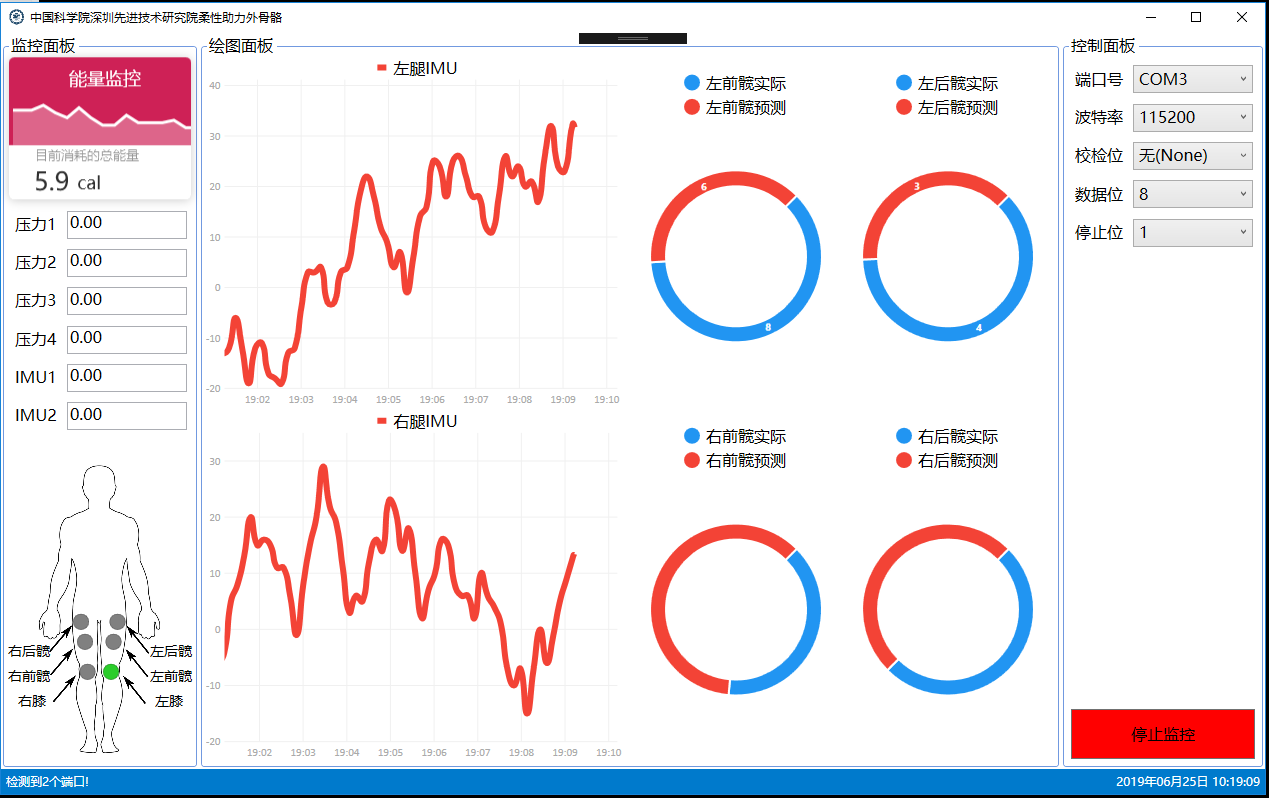
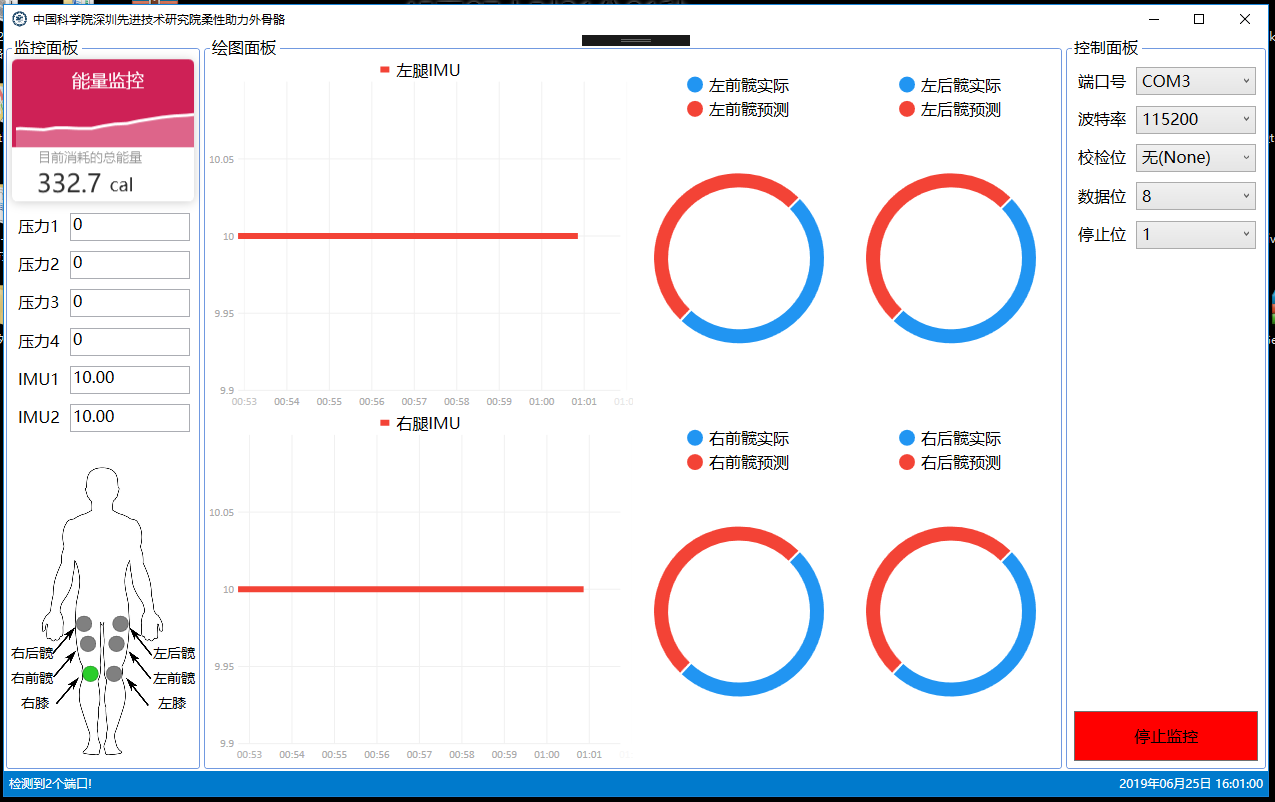
完成4个助力的实际值和预测值可视化

diff --git a/LiveChartsLearning/LiveChartsLearning/BasicColumn.xaml b/LiveChartsLearning/LiveChartsLearning/BasicColumn.xaml
@@ -8,16 +8,20 @@
              mc:Ignorable="d" 
              d:DesignHeight="300" d:DesignWidth="300" d:DataContext="{d:DesignInstance local:BasicColumn}">
     <Grid>
-        <lvc:CartesianChart Series="{Binding SeriesCollection}" LegendLocation="Top">
-            
-            <lvc:CartesianChart.AxisX>
-                <lvc:Axis Title="Salesman" Labels="{Binding Labels}"></lvc:Axis>
-            </lvc:CartesianChart.AxisX>
-            <!--
+        <DockPanel>
+            <Button x:Name="update" DockPanel.Dock="Bottom" Height="20" Click="update_Click" Padding="10 0" Content="Update"/>
+            <lvc:CartesianChart DockPanel.Dock="Top" Series="{Binding SeriesCollection}" LegendLocation="Top">
+
+                <lvc:CartesianChart.AxisX>
+                    <lvc:Axis Title="Salesman" Labels="{Binding Labels}"></lvc:Axis>
+                </lvc:CartesianChart.AxisX>
+                <!--
             <lvc:CartesianChart.AxisY>
                 <lvc:Axis Title="Sold Apps" LabelFormatter="{Binding Formatter}"></lvc:Axis>
             </lvc:CartesianChart.AxisY>
             -->
-        </lvc:CartesianChart>
+            </lvc:CartesianChart>
+        </DockPanel>
+        
     </Grid>
 </UserControl>

diff --git a/FlexibleExoskeleton/FlexibleExoskeleton/MainWindow.xaml.cs b/FlexibleExoskeleton/FlexibleExoskeleton/MainWindow.xaml.cs
@@ -190,9 +190,6 @@ namespace FlexibleExoskeleton
                     Task.Factory.StartNew(EnergeRead); // 能量监控开始
                     // 环状图监控开始
                     Task.Factory.StartNew(LeftFhipPieRead);
-                    Task.Factory.StartNew(LeftBhipPieRead);
-                    Task.Factory.StartNew(RightFhipPieRead);
-                    Task.Factory.StartNew(RightBhipPieRead);
 
                     LedTimer.Tick += new EventHandler(LedLightTimer); //增加了一个叫ShowSenderTimer的在电机和传感器的只读文本框中输出信息的委托
                     LedTimer.Interval = new TimeSpan(0, 0, 0, 2, 0);  //文本变化间隔是??毫秒(并不准确)
@@ -222,6 +219,7 @@ namespace FlexibleExoskeleton
         }
         #endregion
 
+        #region LED助力指示灯
         private void LedLightTimer(object sender, EventArgs e)//取当前时间并扫描可用串口的委托
         {
             IsLight = !IsLight;
@@ -237,6 +235,7 @@ namespace FlexibleExoskeleton
                 RightKneeLight_Ellipse.Fill = new SolidColorBrush(Color.FromArgb(230, 20, 200, 20));
             }
         }
+        #endregion
 
         #region 下拉选项框
         private void DataComboBox_DropDownClosed(object sender, EventArgs e) // 【端口号】下拉选项框选择好后执行
@@ -408,20 +407,20 @@ namespace FlexibleExoskeleton
             //CurPlot_total.AddLineGraph(total_Cur, Colors.Red, 2, "电机总电流");
             #endregion
 
-            #region Doughnut图声明
+            #region 环状图声明
             LeftFhipPie_SeriesCollection = new SeriesCollection
             {
                 new PieSeries
                 {
                     Title = "左前髋实际",
                     Values = new ChartValues<ObservableValue> { new ObservableValue(8) },
-                    DataLabels = true
+                    DataLabels = false
                 },
                 new PieSeries
                 {
                     Title = "左前髋预测",
                     Values = new ChartValues<ObservableValue> { new ObservableValue(6) },
-                    DataLabels = true
+                    DataLabels = false
                 },
             };
 
@@ -430,14 +429,14 @@ namespace FlexibleExoskeleton
                 new PieSeries
                 {
                     Title = "左后髋实际",
-                    Values = new ChartValues<ObservableValue> { new ObservableValue(3) },
-                    DataLabels = true
+                    Values = new ChartValues<ObservableValue> { new ObservableValue(8) },
+                    DataLabels = false
                 },
                 new PieSeries
                 {
                     Title = "左后髋预测",
-                    Values = new ChartValues<ObservableValue> { new ObservableValue(9) },
-                    DataLabels = true
+                    Values = new ChartValues<ObservableValue> { new ObservableValue(6) },
+                    DataLabels = false
                 },
             };
 
@@ -446,14 +445,14 @@ namespace FlexibleExoskeleton
                 new PieSeries
                 {
                     Title = "右前髋实际",
-                    Values = new ChartValues<ObservableValue> { new ObservableValue(3) },
-                    DataLabels = true
+                    Values = new ChartValues<ObservableValue> { new ObservableValue(8) },
+                    DataLabels = false
                 },
                 new PieSeries
                 {
                     Title = "右前髋预测",
-                    Values = new ChartValues<ObservableValue> { new ObservableValue(9) },
-                    DataLabels = true
+                    Values = new ChartValues<ObservableValue> { new ObservableValue(6) },
+                    DataLabels = false
                 },
             };
 
@@ -462,14 +461,14 @@ namespace FlexibleExoskeleton
                 new PieSeries
                 {
                     Title = "右后髋实际",
-                    Values = new ChartValues<ObservableValue> { new ObservableValue(3) },
-                    DataLabels = true
+                    Values = new ChartValues<ObservableValue> { new ObservableValue(8) },
+                    DataLabels = false
                 },
                 new PieSeries
                 {
                     Title = "右后髋预测",
-                    Values = new ChartValues<ObservableValue> { new ObservableValue(9) },
-                    DataLabels = true
+                    Values = new ChartValues<ObservableValue> { new ObservableValue(6) },
+                    DataLabels = false
                 },
             };
 
@@ -532,7 +531,7 @@ namespace FlexibleExoskeleton
                 ChartValues1.Add(new MeasureModel
                 {
                     DateTime = now,
-                    Value = ports.imus[0]
+                    Value = ports.imus[0] // 左腿IMU
                     //Value = _trend1
                 });
 
@@ -545,7 +544,7 @@ namespace FlexibleExoskeleton
                 ChartValues3.Add(new MeasureModel
                 {
                     DateTime = now,
-                    Value = ports.imus[1]
+                    Value = ports.imus[1] // 右腿IMU
                     //Value = _trend3
                 });
 
@@ -639,7 +638,7 @@ namespace FlexibleExoskeleton
         }
         #endregion
 
-        #region Doughnut图
+        #region 环状图
         public SeriesCollection LeftFhipPie_SeriesCollection { get; set; } // 左前髋环状图
         public SeriesCollection LeftBhipPie_SeriesCollection { get; set; } // 左后髋环状图
         public SeriesCollection RightFhipPie_SeriesCollection { get; set; } // 右前髋环状图
@@ -651,67 +650,51 @@ namespace FlexibleExoskeleton
             {
                 Thread.Sleep(1000);
 
+                bool flag = true;
+
                 var r = new Random();
 
                 foreach (var series in LeftFhipPie_SeriesCollection)
                 {
                     foreach (var observable in series.Values.Cast<ObservableValue>())
                     {
-                        observable.Value = r.Next(0, 10);
+                        flag = !flag;
+
+                        if (flag) observable.Value = Math.Abs(ports.IdealForce[0]); // 左前髋预测                          
+                        else observable.Value = Math.Abs(ports.ActualForce[0]); // 左前髋实际                                   
                     }
                 }
-            }
-        }
-
-        private void LeftBhipPieRead()
-        {
-            while (IsReading)
-            {
-                Thread.Sleep(1000);
-
-                var r = new Random();
 
                 foreach (var series in LeftBhipPie_SeriesCollection)
                 {
                     foreach (var observable in series.Values.Cast<ObservableValue>())
                     {
-                        observable.Value = r.Next(0, 5);
+                        flag = !flag;
+
+                        if (flag) observable.Value = Math.Abs(ports.IdealForce[1]); // 左后髋预测                          
+                        else observable.Value = Math.Abs(ports.ActualForce[1]); // 左后髋实际    
                     }
                 }
-            }
-        }
-
-        private void RightFhipPieRead()
-        {
-            while (IsReading)
-            {
-                Thread.Sleep(1000);
-
-                var r = new Random();
 
                 foreach (var series in RightFhipPie_SeriesCollection)
                 {
                     foreach (var observable in series.Values.Cast<ObservableValue>())
                     {
-                        observable.Value = r.Next(0, 5);
+                        flag = !flag;
+
+                        if (flag) observable.Value = Math.Abs(ports.IdealForce[2]); // 右前髋预测                          
+                        else observable.Value = Math.Abs(ports.ActualForce[2]); // 右前髋实际    
                     }
                 }
-            }
-        }
-
-        private void RightBhipPieRead()
-        {
-            while (IsReading)
-            {
-                Thread.Sleep(1000);
-
-                var r = new Random();
 
                 foreach (var series in RightBhipPie_SeriesCollection)
                 {
                     foreach (var observable in series.Values.Cast<ObservableValue>())
                     {
-                        observable.Value = r.Next(0, 5);
+                        flag = !flag;
+
+                        if (flag) observable.Value = Math.Abs(ports.IdealForce[3]); // 右后髋预测                          
+                        else observable.Value = Math.Abs(ports.ActualForce[3]); // 右后髋实际   
                     }
                 }
             }

diff --git a/FlexibleExoskeleton/FlexibleExoskeleton/Ports.cs b/FlexibleExoskeleton/FlexibleExoskeleton/Ports.cs
@@ -55,6 +55,15 @@ namespace FlexibleExoskeleton
             ReadData_SerialPort.StopBits = stopBits; // 停止位
             ReadData_SerialPort.Open();
             ReadData_SerialPort.DataReceived += new System.IO.Ports.SerialDataReceivedEventHandler(DataReceived);
+
+            // 使空载时可视化绘图窗口有读数
+            for (int i = 0; i < 4; i++)
+            {
+                ActualForce[i] = 10.2F;
+                IdealForce[i] = 10.4F;
+            }
+            imus[0] = 10;
+            imus[1] = 10;
         }
 
         public bool SerialPortClose()//关闭串口

diff --git a/LiveChartsLearning/LiveChartsLearning/BasicColumn.xaml.cs b/LiveChartsLearning/LiveChartsLearning/BasicColumn.xaml.cs
@@ -43,5 +43,12 @@ namespace LiveChartsLearning
         public string[] Labels { get; set; }
         public Func<double, string> Formatter { get; set; }
 
+        private void update_Click(object sender, System.Windows.RoutedEventArgs e)
+        {
+            var r = new Random();
+
+            SeriesCollection[0].Values = new ChartValues<double> { r.Next(0,100), r.Next(0, 100), r.Next(0, 100), r.Next(0, 100) };
+            SeriesCollection[1].Values = new ChartValues<double> { r.Next(0, 100), r.Next(0, 100), r.Next(0, 100), r.Next(0, 100) };
+        }
     }
 }
